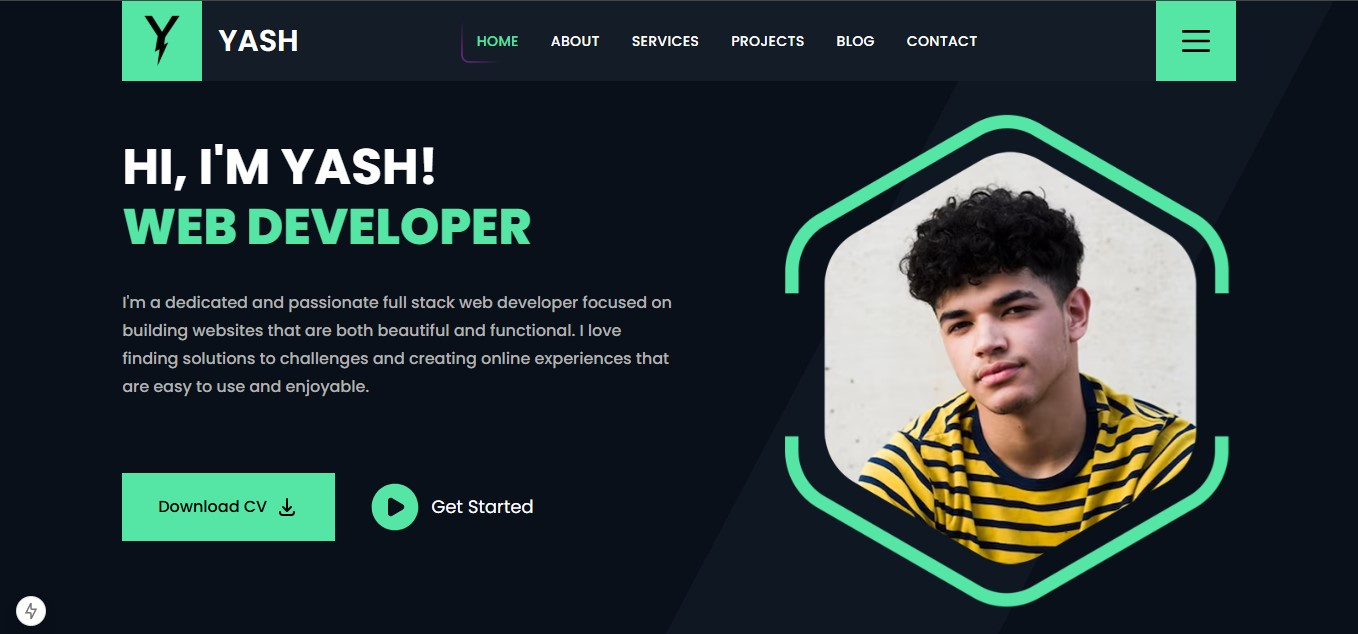
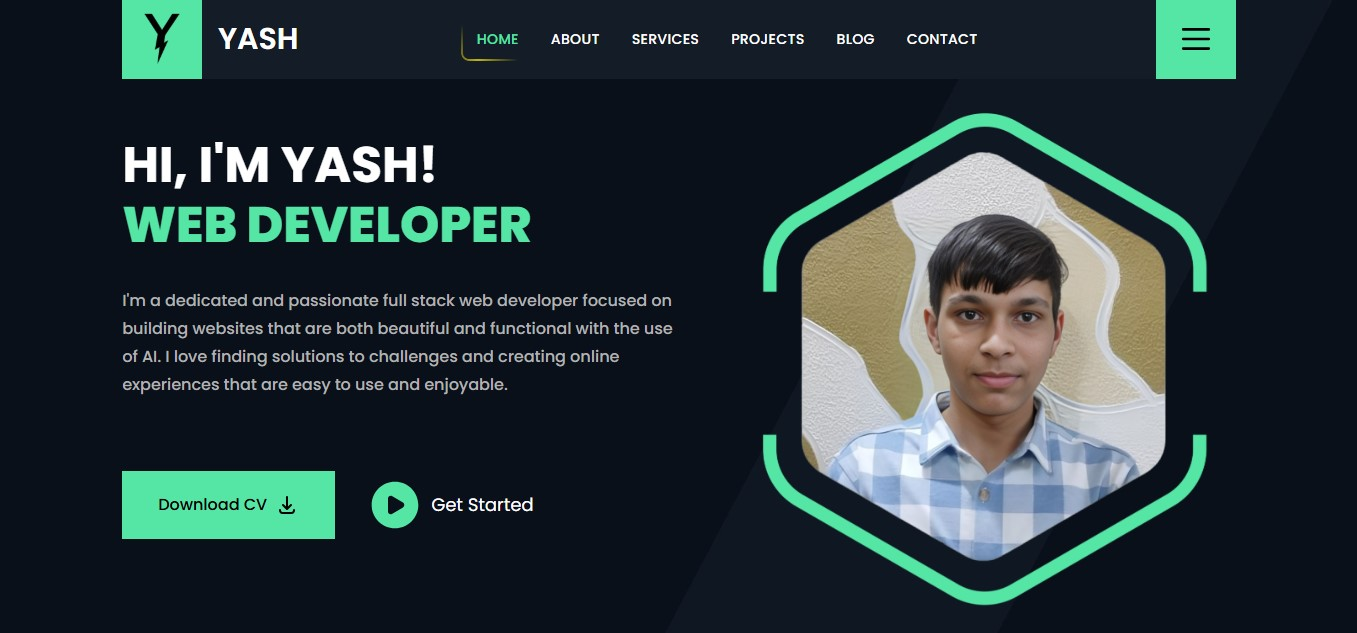
hahaha

diff --git a/app/components/everyblog.js b/app/components/everyblog.js
@@ -68,14 +68,14 @@ const everyblog = ({currblog}) => {
             <Navbar/>
             <div className="blackscreen absolute w-full opacity-0 transition-opacity z-[-10] bg-black/50 h-full top-0 left-0 "></div>
             <Threedot/>
-            <div className='py-[140px] pt-[200px] mx-auto px-[10%] max-[900px]:5xl text-6xl font-bold bg-[#09101A]'>
+            <div className='py-[140px] max-[550px]:text-4xl max-[550px]:pb-[60px] max-[550px]:pt-[120px] max-[900px]:pb-[100px] max-[1000px]:pt-[160px] pt-[200px] mx-auto px-[10%]  max-[900px]:text-5xl text-6xl font-bold bg-[#09101A]'>
             {currblog.title}
             </div>
-            <div className="content w-[65%] mx-auto bg-black py-20">
+            <div className="content w-[65%] max-[1000px]:w-[80%] max-[550px]:w-[90%] mx-auto bg-black py-20">
                 <img src="https://codeefly.net/wp/zyan/wp-content/uploads/2023/10/list_2.jpg" alt="introimg" />
-                <div className='flex gap-6 my-5 relative'>
-    <div className="comments text-[#b2b2b2] justify-center flex gap-2 font-semibold text-lg"><img className='w-6' src="svgs/comments.svg" alt="comment" />Comments ({currblog.no_of_comment})</div>
-    <div className="comments text-[#b2b2b2] justify-center text-lg flex gap-2 font-semibold"><img className='w-6' src="svgs/clock.svg" alt="time" />{currblog.date}</div>
+                <div className='flex gap-6 max-[550px]:justify-between my-5 relative'>
+    <div className="comments text-[#b2b2b2] justify-center max-[550px]:text-base flex gap-2 font-semibold text-lg"><img className='w-6' src="svgs/comments.svg" alt="comment" />Comments ({currblog.no_of_comment})</div>
+    <div className="comments text-[#b2b2b2] justify-center text-lg flex max-[550px]:text-base gap-2 font-semibold"><img className='w-6' src="svgs/clock.svg" alt="time" />{currblog.date}</div>
     </div>
     <div className=''
     dangerouslySetInnerHTML={{ __html: currblog.content }}

diff --git a/app/layout.js b/app/layout.js
@@ -4,17 +4,12 @@ import Script from 'next/script';
 
 export const metadata = {
   title: "Yash Dwivedi | Developer & Designer Portfolio",
-  keywords:"Yash,Full Stack Developer, AI, Web Development, Portfolio Website, Innovative Design, Showcasing Projects, AI tools, User friendly interface, Responsive Design, Buisness Growth",
+  keywords:"Yash,creating yash,Full Stack Developer, AI, Web Development, Portfolio Website, Innovative Design, Showcasing Projects, AI tools, User friendly interface, Responsive Design, Buisness Growth",
   description: "Welcome to Yash Dwivedi’s portfolio! As a Full Stack Web Developer, I create dynamic, scalable websites that incorporate Artificial Intelligence(AI). My focus is on delivering engaging user experiences. Explore my work and see how I bring ideas to life!",
   twitter: {
     card: "summary_large_image"
   },
-  openGraph: {
-    title: 'Yash Dwivedi | Web Developer & Designer Portfolio',
-    images: [
-      `${process.env.NEXT_PUBLIC_URL}/opengraph-image.jpg`
-    ]
-  },
+  
 };
 
 export default function RootLayout({ children }) {

diff --git a/app/opengraph-image.js b/app/opengraph-image.js
@@ -1,0 +1,39 @@
+import { ImageResponse } from 'next/og'
+ 
+export const runtime = 'edge'
+ 
+// Image metadata
+export const alt = 'Yash Dwivedi - Portfolio Website'
+export const size = {
+  width: 1200,
+  height: 630,
+}
+ 
+export const contentType = `${process.env.NEXT_PUBLIC_URL}/opengraph-image.jpg`
+ 
+// Image generation
+export default async function Image() {
+  // Font
+ 
+ 
+  return new ImageResponse(
+    (
+      // ImageResponse JSX element
+      <div
+        style={{
+          fontSize: 128,
+          background: 'white',
+          width: '100%',
+          height: '100%',
+          display: 'flex',
+          alignItems: 'center',
+          justifyContent: 'center',
+        }}
+      >
+        About Acme
+      </div>
+    ),
+    // ImageResponse options
+    
+  )
+}

diff --git a/app/[keyword]/page.js b/app/[keyword]/page.js
@@ -97,7 +97,7 @@ export async function generateMetadata({ params }) {
     return {
       title: `${curblog.title} - Yash Dwivedi | Portfolio Website`,
       description: `Hey, you are reading about ${curblog.title}, keep it up!`,
-      keywords:"Blog, linktree, artificial intelligence features, AI tools, Yash,Full Stack Developer, AI, Web Development, Portfolio Website,copilotkit, modern website, responsive design",
+      keywords:"Blog, linktree, artificial intelligence, AI tools, Yash,Full Stack Developer, AI, Web Development, Portfolio Website, modern website, responsive design",
     };
   }
   else {

diff --git a/app/page.js b/app/page.js
@@ -37,7 +37,6 @@ export default function Home() {
 
    let a = await fetch("/newcontact", requestOptions)
    let response = await a.json()
-   console.log(response)
    if(response.error == false){if (iziToast) {
     iziToast.success({
         title: "Success",
@@ -56,7 +55,6 @@ if (iziToast) {
   console.error("iziToast is not loaded.");
 }
 }
-        console.log(data)
 }
   return (
     <main className="relative overflow-x-hidden bg-white">

diff --git a/app/newcontact/route.js b/app/newcontact/route.js
@@ -3,7 +3,6 @@ import clientpromise from "../lib/clientpromise";
 
 export async function POST(req) {
     try{let data = await req.json()
-        console.log(data)
    let client = await clientpromise
    let database =  client.db()
    let collection = database.collection("contacts")

diff --git a/app/components/navbar.js b/app/components/navbar.js
@@ -96,7 +96,6 @@ const navbar = () => {
     function scrollToSection(id) {
         const section = document.getElementById(id);
         if(section){
-        console.log(section)
         section.scrollIntoView({
           behavior: 'smooth',
           block: 'start',
